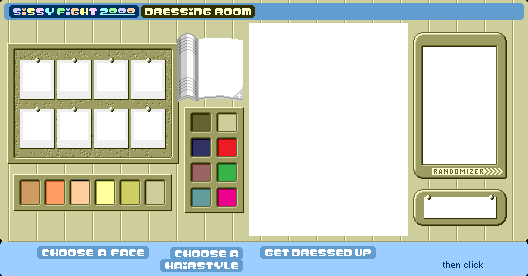
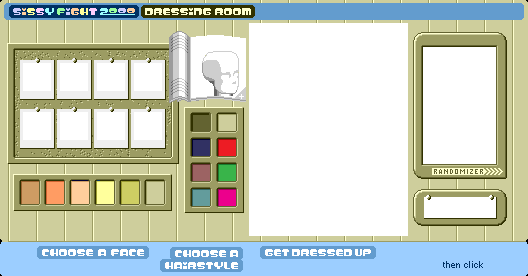
client: dressing - art fixes

Changed region(s): [[0.303, 0.1159, 0.4848, 0.3768]]

diff --git a/public/client/DressingRoom.js b/public/client/DressingRoom.js
@@ -32,11 +32,6 @@ var p = DressingRoom.prototype = new createjs.Container();
 		this.addChild(this.faces);
 		this.showFaces();
 		
-		// layer for hair previews
-		this.hair = new createjs.Container();
-		this.addChild(this.hair);
-		this.showHair();
-		
 		// avatar in mirror
 		this.avatar = new sf.Avatar();
 		//this.look.headdir = this.look.bodydir = 0; // face left
@@ -59,6 +54,13 @@ var p = DressingRoom.prototype = new createjs.Container();
 			
 		// framing layer
 		this.addChild(this.assets.dressing_frame);
+		
+				
+		// layer for hair previews
+		this.hair = new createjs.Container();
+		this.addChild(this.hair);
+		this.showHair();
+		
 		
 		// UI elements
 		_.each(['skincolor','haircolor'], function(feature) {
@@ -220,7 +222,7 @@ var p = DressingRoom.prototype = new createjs.Container();
 		this.hair.removeAllChildren();
 		var wig = sf.Avatar.getHairExemplarSprite(this.look.hairstyle || 0, this.look.haircolor || 0);
 		wig.x = 222;
-		wig.y = 32;
+		wig.y = 36;
 		this.hair.addChild(wig);
 	}
 	
